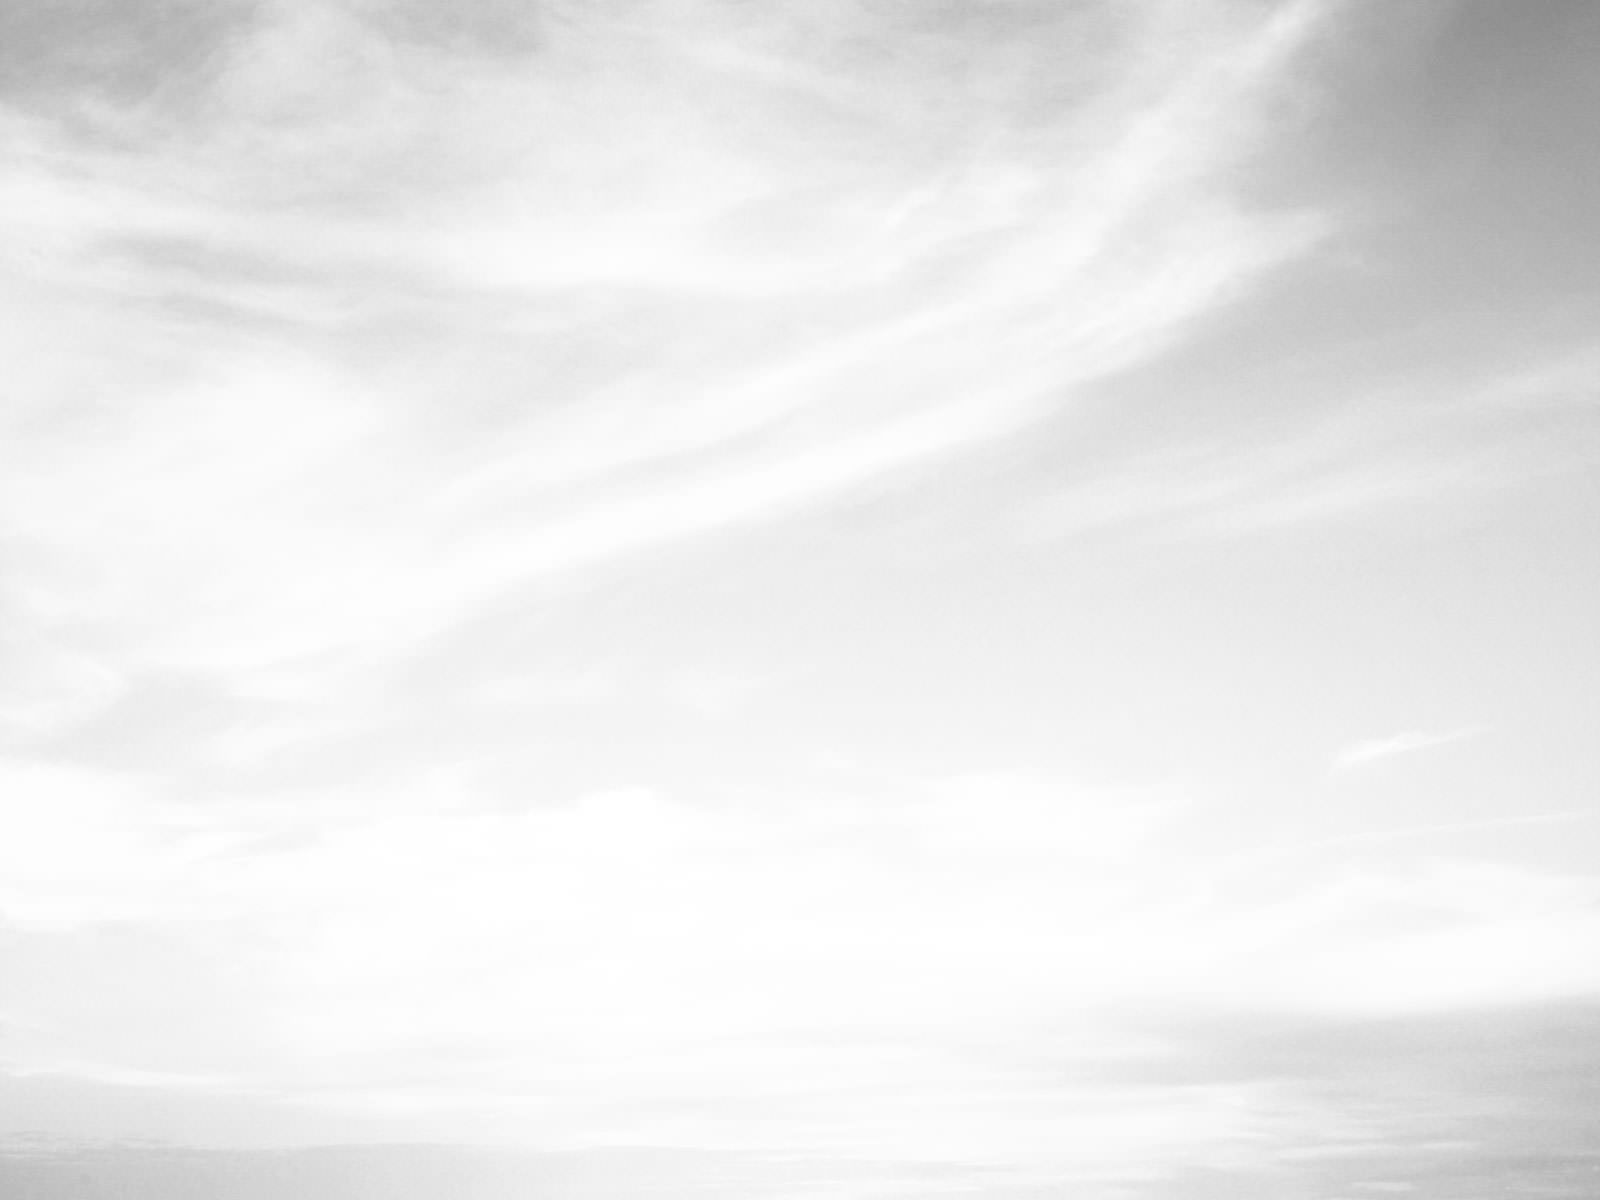
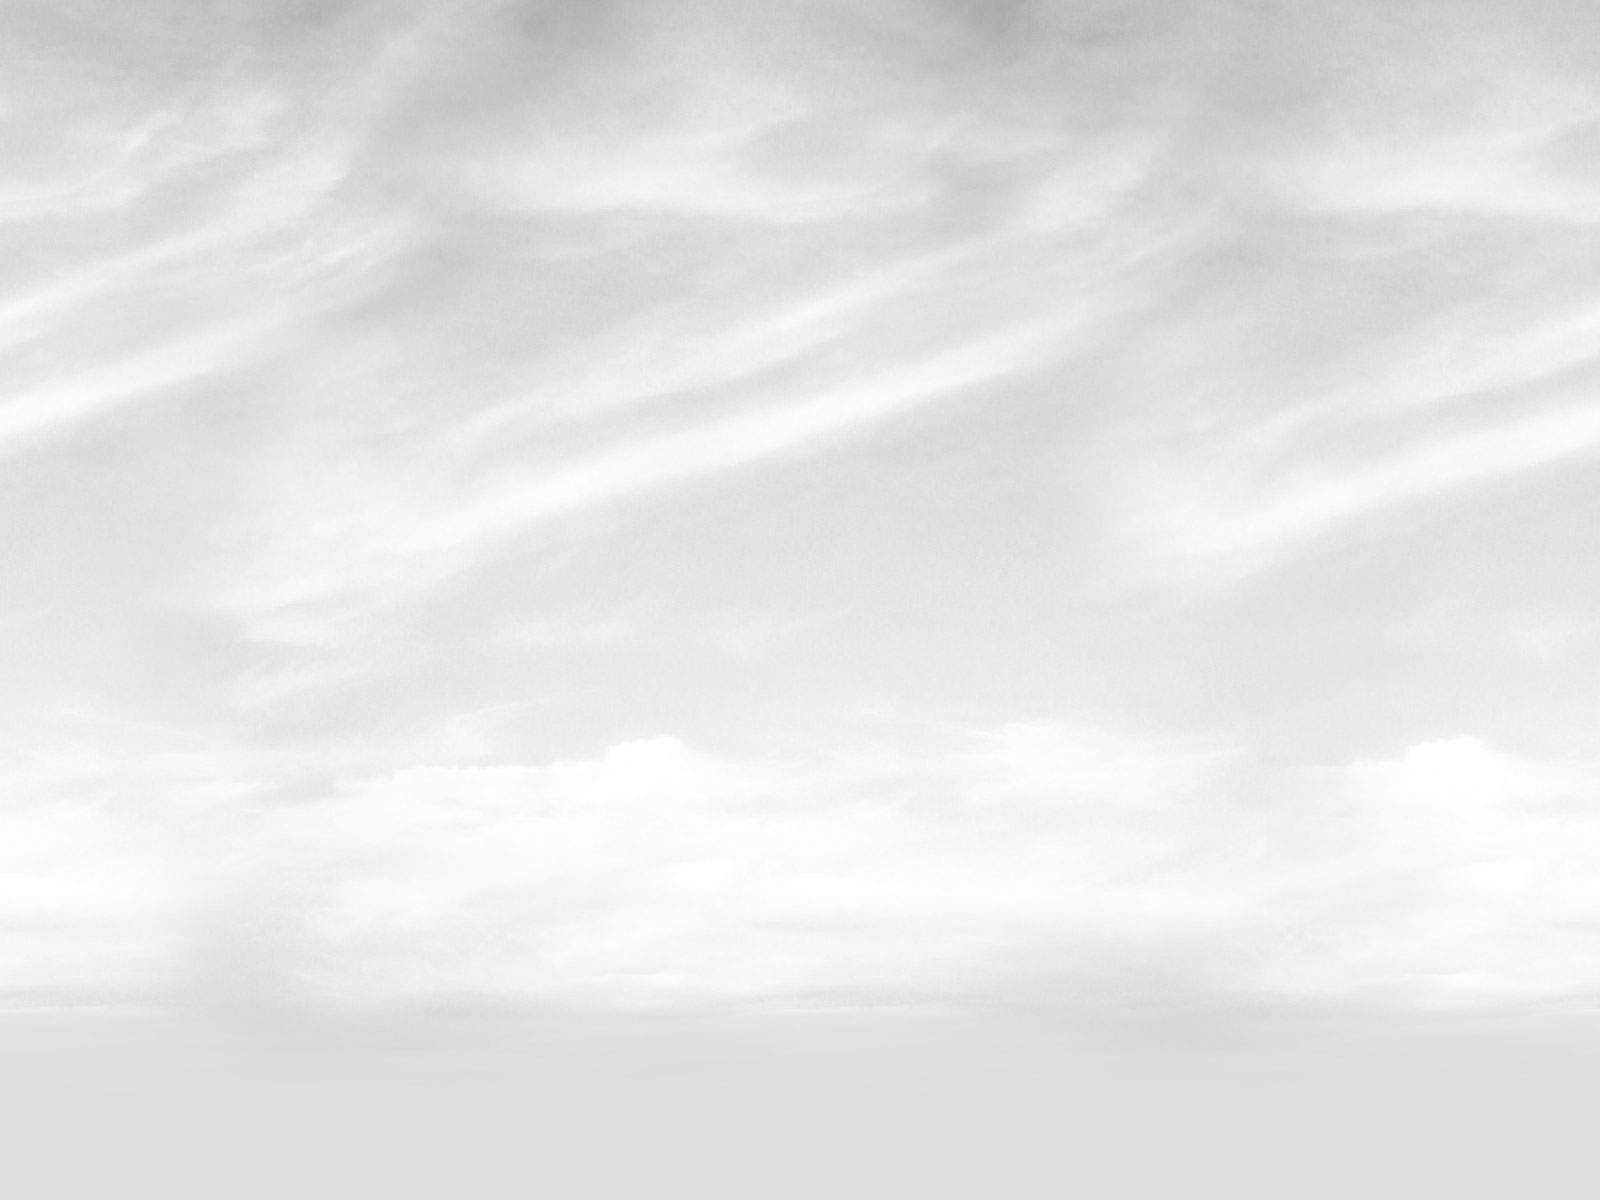
Add background animation, Begin media and praise sections

diff --git a/source/stylesheets/pages/home/_media.scss b/source/stylesheets/pages/home/_media.scss
@@ -1,14 +1,44 @@
 .p-HomeMedia {
   @extend .s-Section;
-  height: 1em; // TODO remove when content is added
+  @include scrolling-clouds;
   padding-top: $section-padding * 8;
   margin-top: -#{$section-padding * 8};
-  background: $light-grey url('../images/bg.jpg') top center no-repeat fixed;
-  -webkit-background-size: cover;
-  background-size: cover;
 
   @include media($section-breakpoint) {
     padding-top: $section-padding-large * 8;
     margin-top: -#{$section-padding-large * 8};
   }
+
+  h1 {
+  margin-bottom: 1em;
+  color: darken($light-green, 25);
+  font-family: $font--sans;
+  font-weight: normal;
+  font-size: 1.5em;
+  text-align: center;
+  }
+
+  h2 {
+    color: $grey;
+    text-align: center;
+    font-weight: 400;
+    font-style: italic;
+    font-size: 1em;
+  }
+
+} // .p-HomeMedia
+
+.p-HomeMedia__wrapper {
+  @include outer-container;
+}
+
+.p-HomeMedia__links {
+  @include row;
+
+  @include media($layout--medium) {
+    .p-HomeMedia__links-group {
+      @include span-columns(3 of 6);
+      @include omega(2n);
+    }
+  } //@include media($layout--medium)
 }

diff --git a/source/stylesheets/pages/home/_welcome.scss b/source/stylesheets/pages/home/_welcome.scss
@@ -1,9 +1,8 @@
 .p-HomeWelcome {
   @extend .s-Section;
+  @include scrolling-clouds;
   padding-top: $section-padding;
   padding-bottom: $section-padding * 2;
-  background: $light-grey image-url('bg.jpg') top center no-repeat fixed;
-  background-size: cover;
 
   img {
     box-shadow: 0 1px 2px 0 rgba(0, 0, 0, 0.1),
@@ -26,19 +25,24 @@
   .Btn {
     display: block;
     max-width: 15em;
-    margin: auto;
+    margin: 0 auto 1em;
     box-shadow: 0 1px 2px 0 rgba(0, 0, 0, 0.1),
                 0 1px 2px 0 rgba(0, 0, 0, 0.15);
+  }
+
+  h4 {
+  text-align: center;
+  text-transform: uppercase;
   }
 }
 
 .p-HomeWelcome__book-image {
   max-width: 10em;
-  margin: 0 auto 0.5em;
+  margin: 0 auto 1em;
 }
 
 .p-HomeWelcome__author {
-  margin: 0.5em 0 1em;
+  margin: 0.5em 0 2em;
   font-family: $font--serif;
   font-size: 0.875em;
   font-style: italic;
@@ -47,7 +51,7 @@
 @include media($layout--xlarge) {
 
   .p-HomeWelcome__book-image {
-    max-width: none;
+    max-width: 12em;
   }
 
   .p-HomeWelcome__book {

diff --git a/source/stylesheets/pages/home/_praise.scss b/source/stylesheets/pages/home/_praise.scss
@@ -1,0 +1,43 @@
+.p-HomePraise {
+  margin-bottom: $section-padding;
+
+
+  h1 {
+    margin-bottom: 1em;
+    color: $dark-green;
+    font-family: $font--sans;
+    font-size: 1.5em;
+    font-weight: normal;
+    text-align: center;
+  }
+}
+
+.p-HomePraise__wrapper {
+  @include outer-container;
+
+  .p-HomePraise__items {
+    @include row;
+  }
+
+  blockquote {
+    border-left: none;
+    padding: 1em 0 1em;
+    margin: 0 auto;
+  }
+
+  cite {
+    display: block;
+    margin-top: 1em;
+    font-size: 75%;
+    color: $green;
+
+    &:before { content: "—" }
+  }
+
+  @include media($layout--xlarge) {
+    blockquote {
+      @include span-columns(3 of 6);
+      @include omega(2n);
+    }
+  } //@include media($layout--medium)
+}

diff --git a/source/stylesheets/settings/_colors.scss b/source/stylesheets/settings/_colors.scss
@@ -1,9 +1,10 @@
 $black:        #222;
 $white:        #fff;
 $green:        #67ad44;
+$pale-green:  desaturate(lighten($green, 45), 0);
 $light-green:  desaturate(lighten($green, 5), 5);
 $dark-green:  desaturate(darken($green, 25), 5);
-$light-grey:  desaturate(lighten($green, 40), 40);
+$light-grey:  #dddddd;
 $grey:         desaturate($green, 50);
 $dark-grey: #333 !default;
 

diff --git a/source/stylesheets/sections/_footer.scss b/source/stylesheets/sections/_footer.scss
@@ -5,13 +5,15 @@
  */
 
 .s-Footer {
-  background: $white;
   padding: $section-padding $page-gutter;
+  background: $white;
   font-family: $font--sans;
   text-align: center;
 }
 
-.s-Footer__attribution a {
-  border-bottom: none;
+.s-Footer__attribution {
+  font-family: $font--serif;
   font-size: 75%;
+
+  a { border-bottom: 0; }
 }

diff --git a/source/stylesheets/sections/_header.scss b/source/stylesheets/sections/_header.scss
@@ -23,17 +23,12 @@
   }
 
   @include media(min-height $header-breakpoint) {
-
+    height: #{$header-height-large}em;
+    
     .s-Header__logo a {
       padding: 0.5em;
     }
   }
-
-
-  @include media(min-height $header-breakpoint) {
-    height: #{$header-height-large}em;
-  }
-
 } // .s-Header
 
 .s-HeaderConstrained {

diff --git a/source/stylesheets/main.scss b/source/stylesheets/main.scss
@@ -21,6 +21,7 @@
 @import 'elements/buttons';
 @import 'elements/inputs';
 @import 'elements/containers';
+@import 'elements/backgrounds';
 
 // Blocks
 @import 'blocks/text';
@@ -39,3 +40,4 @@
 @import 'pages/home/author';
 @import 'pages/home/video';
 @import 'pages/home/media';
+@import 'pages/home/praise';

diff --git a/source/stylesheets/elements/_backgrounds.scss b/source/stylesheets/elements/_backgrounds.scss
@@ -1,0 +1,9 @@
+@mixin scrolling-clouds {
+  @include animation(animatedBackground 50s ease-in-out infinite);
+  @include animation-direction(alternate);
+  background: $light-grey image-url('bg.jpg') 0 0 repeat-x;
+
+  @include media($layout--xlarge) {
+    @include animation-duration(20s);
+  }
+}

diff --git a/source/stylesheets/settings/_page.scss b/source/stylesheets/settings/_page.scss
@@ -5,7 +5,7 @@ $header-breakpoint: 35em;
 $header-height-small: 2.875;
 $header-height-large: 3.875;
 
-$nav-breakpoint: $layout--xlarge;
+$nav-breakpoint: 56em;
 
 $section-padding: 3em;
 $section-padding-large: $section-padding * 1.5;

diff --git a/source/stylesheets/elements/_document.scss b/source/stylesheets/elements/_document.scss
@@ -23,7 +23,7 @@ body {
   font-family: $font--serif;
   font-size: 100%;
 
-  @include media($header-breakpoint) {
+  @include media(min-height $header-breakpoint) {
     padding-top: #{$header-height-large}em;
   }
 }

diff --git a/source/stylesheets/lib/_animations.scss b/source/stylesheets/lib/_animations.scss
@@ -1,0 +1,4 @@
+@include keyframes(animatedBackground) {
+  0% { background-position: 0 0; }
+  100% { background-position: 100% 0; }
+}
